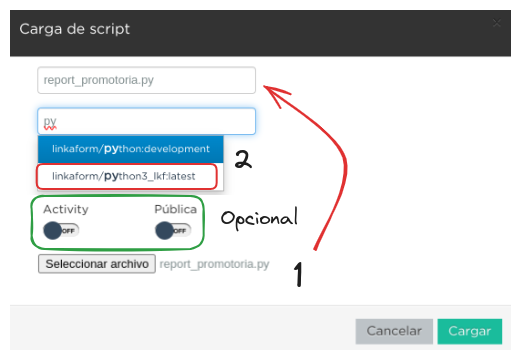
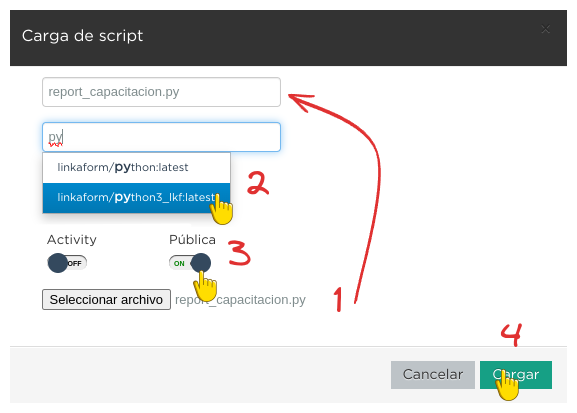
Actualización sobre log de scrips

diff --git a/content/Desarrollador/Reportes/Bases_linkaform.rst b/content/Desarrollador/Reportes/Bases_linkaform.rst
@@ -88,7 +88,7 @@ Crear una carpeta le permitirá almacenar uno o más reportes dentro de ella. Si
 Compartir Carpeta/Reporte
 =========================
 
-Compartir una carpeta o un reporte es un proceso sencillo. Siga los pasos:
+Compartir una carpeta o un reporte es un proceso sencillo. Siga los pasos:    
 
 1. Inicie sesión en la plataforma web en |Producción| :octicon:`report;1em;sd-text-info` o |Preproducción| :octicon:`report;1em;sd-text-info`.
 2. Diríjase y presione la opción ``Reportes`` en el menú lateral.
@@ -99,13 +99,15 @@ Compartir una carpeta o un reporte es un proceso sencillo. Siga los pasos:
 
 5. Ingrese el nombre del usuario con el que desea compartir la carpeta o el reporte y presione ``Enter``. Observe que el nombre del usuario aparecerá en la parte inferior de la ventana.
 
+.. attention:: Compartir un reporte es útil para que otros usuarios puedan visualizar y consultar datos de una o varias formas, según la finalidad del reporte. Sin embargo, al compartir un reporte, también es necesario compartir los elementos que lo componen, es decir, la forma, catálogos o cualquier otro recurso del cual el reporte consulte la información.
+    
+    Revise :ref:`compartir` :octicon:`report;1em;sd-text-info` y :ref:`compartir-cat` :octicon:`report;1em;sd-text-info` para más detalles. 
+
 .. image:: /imgs/Reportes/Reportes5.png
 
-.. seealso:: 
+.. note:: Observe la diferencia entre los permisos permitidos para diferentes usuarios: 
 
-    La diferencia en las opciones de permisos se debe a que el usuario Omar Vázquez es una conexión. Es decir, pertenece a otra cuenta padre diferente a la suya.
-
-    En cambio, el usuario Israel pertenece a la misma cuenta padre.
+    Cuando comparte cualquier elemento con algún miembro perteneciente a la misma cuenta padre que la suya, puede otorgarle el permiso de ``Admin``. Sin embargo, al compartir un elemento con un usuario perteneciente a otra cuenta padre diferente a la suya pero dentro del mismo sistema de Linkaform, se establece una **conexión**, lo que significa que se limita a otorgarle permisos que puedan afectar al elemento compartido.
 
 6. Establezca al usuario el permiso que requiera. Tenga en cuenta las descripciones:
 
@@ -114,7 +116,7 @@ Compartir una carpeta o un reporte es un proceso sencillo. Siga los pasos:
 - **Admin**: El usuario tiene los mismos privilegios que los perfiles anteriores, pero puede modificar y eliminar los reportes o la carpeta.
 - **Borrar registros**: Al activar esta opción, el usuario puede eliminar los reportes. Si no se activa, el usuario no puede eliminar los reportes, incluso si tiene el perfil de ``Admin``.
 
-.. warning:: Cuando se comparte una carpeta, los reportes que contiene heredan automáticamente los permisos. Sin embargo, compartir un reporte e intentar moverlo a una carpeta puede causar problemas.
+.. warning:: Cuando comparte una carpeta, los reportes que contiene heredan automáticamente los permisos. Sin embargo, tenga cuidado al compartir un reporte e intentar moverlo a una carpeta diferente, ya que esto puede causar problemas con los permisos y otras acciones inesperadas.
 
 .. tip:: 
     
@@ -157,9 +159,7 @@ Crear un reporte en Linkaform es un proceso sencillo. Siga el siguiente procedim
 
 .. warning:: Tenga en cuenta que estos son los pasos que debe seguir para configurar el reporte (previamente preparado) en su cuenta de Linkaform; sin embargo, **no** constituyen la totalidad del proceso.
 
-    Antes de realizar esta configuración, asegúrese de `cargar el script <#cargar-script>`_ :octicon:`report;1em;sd-text-info`.
-
-1. Ingrese a la plataforma web de Linkaform en |Producción| :octicon:`report;1em;sd-text-info` o en otro caso, en |Preproducción| :octicon:`report;1em;sd-text-info`.
+1. Inicie sesión en la plataforma web en |Producción| :octicon:`report;1em;sd-text-info` o |Preproducción| :octicon:`report;1em;sd-text-info`.
 
 .. important:: El proceso de configuración en producción y preproducción es idéntico. Sin embargo, se recomienda iniciar el proceso de creación de reportes en preproducción. Una vez finalizado y seguro de sus cambios, puede transferirlo a producción.
 
@@ -191,68 +191,153 @@ Si necesita editar las configuraciones de su reporte, simplemente presione el ic
 
 .. image:: /imgs/Reportes/Reportes9.png
 
-.. _generar-api-key:
+.. _cargar-script:
 
-Generar API key
-===============
+Cargar script
+=============
 
-Una ``API Key`` (clave de API) es un código alfanumérico único que se utiliza para autenticar y autorizar el acceso a toda la información de la cuenta.
+Para cargar un script en la plataforma de Linkaform, siga los siguientes pasos y lea las recomendaciones necesarias.
 
-.. warning:: El usuario con perfil de administrador es el único que puede generar una ``API Key``.
+.. caution:: Tenga en cuenta que los siguientes pasos son necesarios para configurar el script previamente desarrollado.
 
-Para generar una ``API Key``, siga las instrucciones:
+    Antes de realizar esta configuración, asegúrese de haber creado el script de acuerdo a sus requerimientos. Revise la sección :ref:`crear-script` :octicon:`report;1em;sd-text-info` para más detalles.
 
-1. Inicie sesión en la plataforma web de Linkaform en |Producción| :octicon:`report;1em;sd-text-info` o en |Preproducción| :octicon:`report;1em;sd-text-info`.
-2. Seleccione ``Grupos > Usuarios`` ubicado en el menú lateral.
-3. Identifique y seleccione su cuenta. Observe la información que le proporciona. 
-4. Identifique el campo ``ApiKey``.
+1. Inicie sesión en la plataforma web en |Producción| :octicon:`report;1em;sd-text-info` o |Preproducción| :octicon:`report;1em;sd-text-info`.
 
-- Presione el icono en forma de rueda para generar una nueva key.
-- Presione el icono de la papelera para eliminar la key actual.
-- Presione el icono del portapapeles para copiar la key.
+.. important:: El proceso de configuración en producción y preproducción es idéntico. Sin embargo, se recomienda iniciar el proceso de creación de reportes en preproducción. Una vez finalizado y seguro de sus cambios, puede transferirlo a producción.
 
-.. image:: /imgs/Reportes/Reportes23.png
+2. Seleccione ``Formas > Scripts`` en el menú lateral.
+3. Seleccione el icono de documento ubicado en la parte superior derecha.
 
-.. warning:: En caso de que ya existe una ``API Key``, no es necesario crear una nueva, ya que probablemente esté siendo utilizada para otras operaciones. Cambiarla podría provocar acciones inesperadas.
+.. image:: /imgs/Reportes/Reportes31.png
 
-    En el desarrollo de reportes, utilizará esta ``API Key`` en el :ref:`account-settings` :octicon:`report;1em;sd-text-info`.
+Complete el formulario de acuerdo a los siguientes pasos:
+
+1. Seleccione el archivo correspondiente al script. Automáticamente, se rellenará el nombre del script.
+2. Seleccione la imagen de Docker (versión del contenedor de scripts):
+
+- ``python3_lkf:latest`` es la imagen que actualmente se utiliza; usa la version 3 de python.
+- ``python:development`` **no** se usa para scripts actuales; utiliza la version 2 de python.
+
+.. hint:: Ingrese el número 3, automáticamente aparecerá la opción utilizada.
+
+    .. image:: /imgs/Reportes/Reportes32.1.png
+
+3. Seleccione los bullets que considere:
+
+- **Activity**: Active el bullet si desea que la actividad (ejecuciones exitosas o fallas) del script le sea notificada por correo electrónico a la cuenta padre.
+- **Pública**: Active el bullet si desea consultar el script a través de un ``fetch``, sino está indicando que desea consultar el script a través del ``JWT`` del usuario que hace la consulta del script. 
+Es decir, verifica a través del ``token`` si el usuario tiene los permisos necesarios para consultar el script. 
+
+Active el bullet si deasea que 
+
+.. image:: /imgs/Reportes/Reportes32.png
+
+.. _visualizar-id-script:
+
+Ver ``ID`` del script
+---------------------
+
+Hay dos maneras para consultar el id de un script.
+
+**Log de script**
+
+Para consultar a través del log de flujo, siga los siguientes pasos:
+
+1. Ubíquese en la interfaz de scripts.
+2. Identifique el script del cual necesita conocer el ``id``.
+3. Seleccione el icono ``Ejecutar script`` para generar el log del script.
+
+.. note:: Solo ejecute si aún no tienen ningún log.
+
+4. Presione el icono ``Log de script``.
+
+.. image:: /imgs/Reportes/Reportes35.png
+
+5. Seleccione ``Log``.
+6. Presione ``Ctrl + f`` para abrir el buscador de la página.
+7. Escriba:
+
+.. code-block::
+
+    script_id.
+
+8. Copie y pegue el ``script_id`` según lo requiera. 
+
+.. image:: /imgs/Reportes/Reportes36.png
+
+**Herramientas de desarrollador**
+
+Para utilizar las herramientas de desarrollador, siga los pasos:
+
+1. Ubíquese en la interfaz de scripts.
+2. Presione ``Clic derecho > Inspeccionar`` o bien presione ``F12``.
+3. Ubíquese en la pestaña ``Network``.
+4. Recargue la página sin cerrar la ventana de inspección.
+5. Identifique el script que necesite saber el ``id``.
+6. Seleccione la opción ``Compartir``. 
+
+.. image:: /imgs/Reportes/Reportes33.png
+
+7. Identifique la línea ``file_shared_email/?file_shared=`` en el inspector de código.
+8. Copie y pegue el ``id``.
+
+.. image:: /imgs/Reportes/Reportes34.png
 
 .. _log-script:
 
 Log de script
 =============
 
-El ``log`` de script es una herramienta útil que se utiliza para depurar y verificar la correcta ejecución de los scripts.
+El registro de script es una funcionalidad útil que se utiliza para depurar y verificar la correcta ejecución de los scripts.
 
-Para visualizar el ``log`` de un script, siga los siguientes pasos:
+Para visualizar el log de un script, siga los siguientes pasos:
 
-1. Inicie sesión en la plataforma web de Linkaform en |Producción| :octicon:`report;1em;sd-text-info` o en |Preproducción| :octicon:`report;1em;sd-text-info`.
-2. Seleccione ``Formas > Scripts`` en el menú lateral. Podrá observar todos los scripts cargados en la cuenta.
+.. grid:: 2
+    :gutter: 0
+    :padding: 0
+    :margin: 0
 
-.. image:: /imgs/Reportes/Reportes24.png
+    .. grid-item-card:: 
+        :columns: 8
+        :padding: 0
+        :margin: 0
 
-3. Identifique el script de su interés.
-4. Presione el último icono ``Log de Script``. 
+        1. Inicie sesión en la plataforma web de Linkaform en |Producción| :octicon:`report;1em;sd-text-info` o en |Preproducción| :octicon:`report;1em;sd-text-info`.
+        2. Seleccione ``Formas > Scripts`` en el menú lateral. Podrá observar todos los scripts cargados en la cuenta.
+        3. Identifique el script de su interés.
+
+    .. grid-item-card:: 
+        :columns: 4
+        :padding: 0
+        :margin: 0
+
+        .. image:: /imgs/Reportes/Reportes24.png
+
+4. Presione el icono play para ejecutar el script.
 
 .. image:: /imgs/Reportes/Reportes25.png
 
-En el modal encontrará el historial e información útil, como fechas de ejecución y estado del script. Preste mucha atención al estado, ya que le indicará si la ejecución del script fue exitosa o no.
+5. Presione el último icono, ``Log de Script``. Esto abrirá un modal donde encontrará el historial e información útil, como fechas de ejecución y estado del script. Preste mucha atención al estado, ya que le indicará si la ejecución del script fue exitosa o no.
 
-5. Presione la opción ``log`` para más detalles.
+.. image:: /imgs/Reportes/Reportes25.1.png
 
-.. image:: /imgs/Reportes/Reportes26.png
+6. Presione la opción ``log`` para más detalles.
 
 .. seealso:: Consulte la siguiente sección sobre la `interpretación del log <#interpretacion-log-script>`_ :octicon:`report;1em;sd-text-info` para más detalles.
+
+.. image:: /imgs/Reportes/Reportes26.png
 
 .. _interpretacion-log-script:
 
 Interpretación log de script
 ----------------------------
-El registro(log) del script le proporciona información util de la ejecución del script.
 
-En la interpretación del log, es sumamente util analizar las consultas a la base de datos, errores de ejecución, peticiones, manejo de tokens JWT y otros datos relevantes relacionados con el script.
+El registro del script le proporciona información util de la ejecución del script.
 
-Toda la información en el log del registro se genera gracias a la línea de código ``print(sys.argv)`` del script. Esta línea imprime una cadena de objetos JSON con los argumentos de la línea de comandos, lo cual es útil para depurar (debuggear) código en Python.
+Regularmente, en la interpretación del log se analizan las consultas a la base de datos (querys), errores de ejecución, peticiones y otros datos relevantes relacionados con el script.
+
+Toda la información en el log del registro se genera gracias a la línea de código ``print(sys.argv)`` del script. Esta línea imprime una cadena de objetos JSON con los argumentos de la línea de comandos, lo cual es útil para debuggear código en Python.
 
 La variable sys.argv es una lista que contiene los argumentos pasados al script en la línea de comandos. Al imprimir sys.argv, se puede verificar si los argumentos que esperaba están siendo pasados correctamente al script y entender la estructura y valores de esos argumentos.
 
@@ -324,94 +409,31 @@ Si experimenta errores durante la ejecución del script, la impresión de ``sys.
     "data": {"script_id": 123, "date_from": "2023-08-28", "option": 0, "date_to": ""}, "account_id": 11702, "name": "reporte_encuestas.py"}', 'False'
     ]
 
-.. _cargar-script:
+.. _generar-api-key:
 
-Cargar script
-=============
+Generar API key
+===============
 
-Para cargar un script en la aplicación web de Linkaform, siga los siguientes pasos y lea las recomendaciones necesarias.
+Una ``API Key`` (clave de API) es un código alfanumérico único que se utiliza para autenticar y autorizar el acceso a toda la información de la cuenta.
 
-.. caution:: Tenga en cuenta que los siguientes pasos son necesarios para configurar el script previamente desarrollado.
+.. warning:: El usuario con perfil de administrador es el único que puede generar una ``API Key``.
 
-    Antes de realizar esta configuración, asegúrese de haber creado su script de acuerdo a sus necesidades. Revise la sección sobre :ref:`crear-script` :octicon:`report;1em;sd-text-info`.
+Para generar una ``API Key``, siga las instrucciones:
 
-1. Ingrese a la aplicación web de |Linkaform| :octicon:`report;1em;sd-text-info`.
-2. Inicie sesión con sus credenciales.
+1. Inicie sesión en la plataforma web de Linkaform en |Producción| :octicon:`report;1em;sd-text-info` o en |Preproducción| :octicon:`report;1em;sd-text-info`.
+2. Seleccione ``Grupos > Usuarios`` ubicado en el menú lateral.
+3. Identifique y seleccione su cuenta. Observe la información que le proporciona. 
+4. Identifique el campo ``ApiKey``.
 
-.. note:: En caso de no contar con credenciales, solicite asistencia a soporte técnico.
+- Presione el icono en forma de rueda para generar una nueva key.
+- Presione el icono de la papelera para eliminar la key actual.
+- Presione el icono del portapapeles para copiar la key.
 
-3. Seleccione ``Formas > Scripts`` en el menú lateral.
-4. Seleccione el icono de documento ubicado en la parte superior derecha para cargar el script.
+.. image:: /imgs/Reportes/Reportes23.png
 
-.. image:: /imgs/Reportes/Reportes31.png
+.. warning:: En caso de que ya exista una ``API Key``, no es necesario crear una nueva, ya que probablemente esté siendo utilizada para otras operaciones. Cambiarla podría provocar acciones inesperadas.
 
-Complete el formulario de acuerdo a los siguientes pasos:
-
-1. Seleccione el archivo correspondiente al script. Automáticamente, se rellenará el nombre del script.
-2. Seleccione la imagen de Docker (versiones de las herramientas):
-
-- ``python:development`` no se usa para scripts actuales; utiliza la version 2 de python.
-- ``python3_lkf:latest`` es la imagen que actualmente se utiliza; usa la version 3 de python.
-
-3. Seleccione los bullets que considere:
-
-- **Activity**: Active el bullet si desea que la actividad (ejecuciones exitosas o fallas) del script le sea notificada por correo electrónico de la cuenta padre.
-- **Pública**: Active el bullet si desea consultar el script a través de un ``fetch``, sino está indicando que desea consultar el script a través del ``JWT`` del usuario que hace la consulta del script. Es decir, verifica a través del ``token`` si el usuario tiene los permisos necesarios para consultar el script. 
-
-.. note:: Regularmente, los bullet están desactivados.
-
-.. image:: /imgs/Reportes/Reportes32.png
-
-.. _visualizar-id-script:
-
-Ver ``ID`` del script
----------------------
-
-Hay dos maneras para consultar el id de un script.
-
-**Log de script**
-
-Para consultar a través del log de flujo, siga los siguientes pasos:
-
-1. Ubíquese en la interfaz de scripts.
-2. Identifique el script del cual necesita conocer el ``id``.
-3. Seleccione el icono ``Ejecutar script`` para generar el log del script.
-
-.. note:: Solo ejecute si aún no tienen ningún log.
-
-4. Presione el icono ``Log de script``.
-
-.. image:: /imgs/Reportes/Reportes35.png
-
-5. Seleccione ``Log``.
-6. Presione ``Ctrl + f`` para abrir el buscador de la página.
-7. Escriba:
-
-.. code-block::
-
-    script_id.
-
-8. Copie y pegue el ``script_id`` según lo requiera. 
-
-.. image:: /imgs/Reportes/Reportes36.png
-
-**Herramientas de desarrollador**
-
-Para utilizar las herramientas de desarrollador, siga los pasos:
-
-1. Ubíquese en la interfaz de scripts.
-2. Presione ``Clic derecho > Inspeccionar`` o bien presione ``F12``.
-3. Ubíquese en la pestaña ``Network``.
-4. Recargue la página sin cerrar la ventana de inspección.
-5. Identifique el script que necesite saber el ``id``.
-6. Seleccione la opción ``Compartir``. 
-
-.. image:: /imgs/Reportes/Reportes33.png
-
-7. Identifique la línea ``file_shared_email/?file_shared=`` en el inspector de código.
-8. Copie y pegue el ``id``.
-
-.. image:: /imgs/Reportes/Reportes34.png
+    En el desarrollo de reportes, utilizará esta ``API Key`` en el :ref:`account-settings` :octicon:`report;1em;sd-text-info`.
 
 .. _informacion-cuenta:
 

diff --git a/content/Usuario/Formas/index.rst b/content/Usuario/Formas/index.rst
@@ -1646,7 +1646,7 @@ La creación de una carpeta en Linkaform sirve para almacenar una o más formas 
 Compartir Carpeta / Forma
 -------------------------
 
-Compartir una carpeta o una forma es un proceso similar y sencillo, siga los pasos:
+Compartir una carpeta o una forma es un proceso sencillo, siga los pasos:
 
 1. Diríjase y presione la opción ``Formas > Mis Formas`` en el menú lateral.
 2. Identifique la carpeta o la forma de su interés.
@@ -1662,7 +1662,7 @@ Compartir una carpeta o una forma es un proceso similar y sencillo, siga los pas
 - **Admin**: El usuario tendrá los mismos privilegios que los perfiles anteriores, además de poder modificar y eliminar las formas.
 - **Borrar registros**: Al activar esta opción, el usuario podrá eliminar registros de las formas. Si no se activa, el usuario no podrá eliminar registros incluso si tiene el perfil de ``Admin``.
 
-.. important:: Cuando se comparte una carpeta, las formas que contiene heredan automáticamente los permisos.
+.. warning:: Cuando se comparte una carpeta, las formas que contiene heredan automáticamente los permisos.
 
 .. tip:: Si necesita mover una forma a una carpeta, simplemente arrástrela al lugar que necesite. Si necesita mover una forma fuera de alguna carpeta, a la raíz, simplemente arrástrela a la columna principal.
 

diff --git a/content/Usuario/Catálogos/index.rst b/content/Usuario/Catálogos/index.rst
@@ -146,7 +146,7 @@ La creación de una carpeta es útil para almacenar uno o más catálogos dentro
 Compartir Carpeta / Catálogo
 ----------------------------
 
-Compartir una carpeta o un catálog es un proceso similar y sencillo, siga los pasos:
+Compartir una carpeta o un catálogo es un proceso similar y sencillo, siga los pasos:
 
 1. Seleccione la opción ``Catálogos``, ubicada en el menú vertical a la izquierda de su pantalla.
 2. Identifique la carpeta o el catálogo de su interés.
